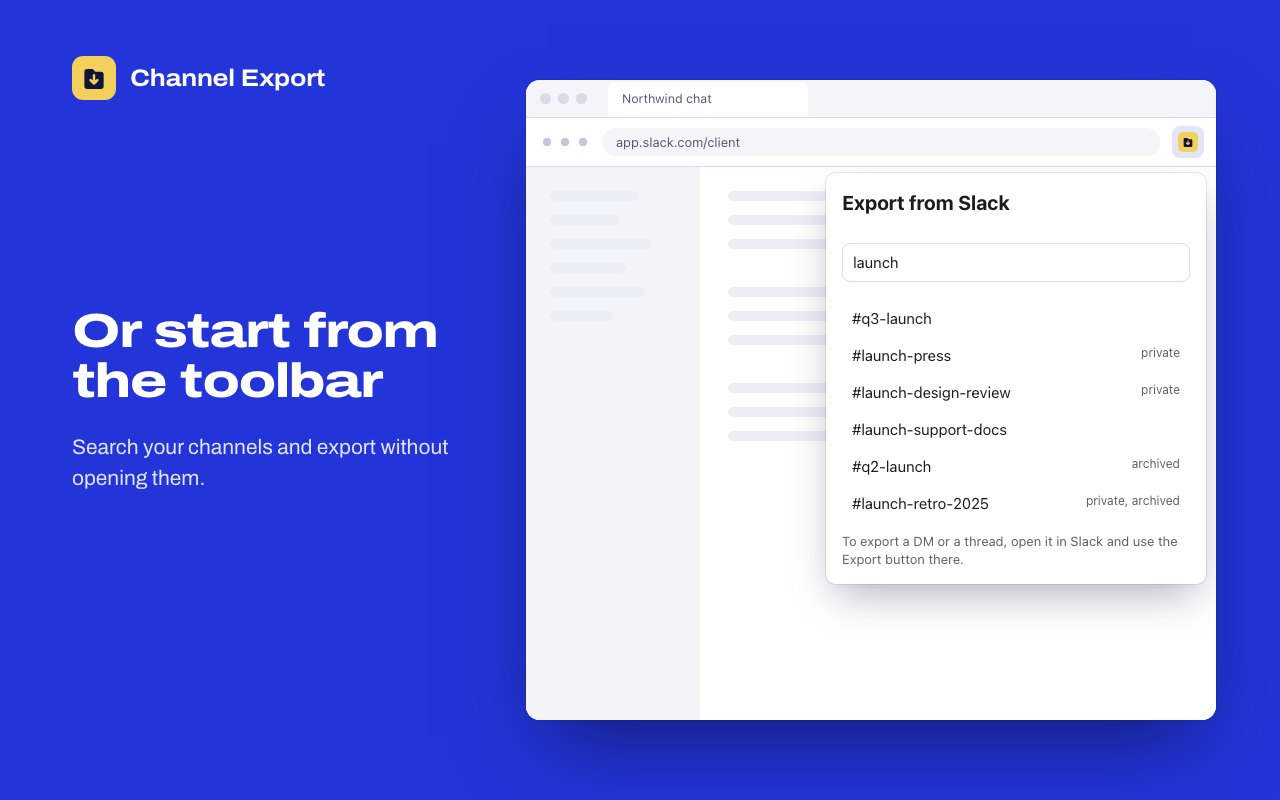
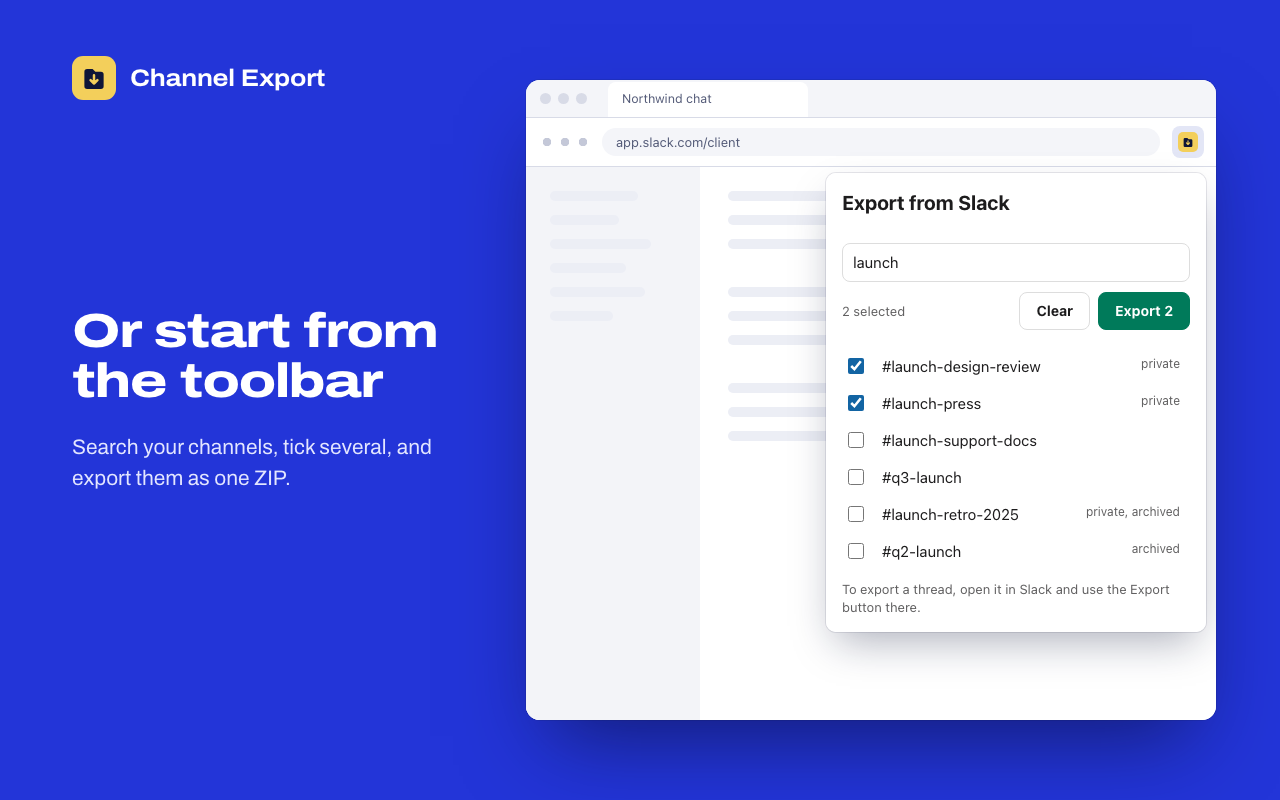
docs: announce Full export and 1:1 DMs on the site

diff --git a/index.html b/index.html
@@ -43,7 +43,7 @@
       "@id": "https://channelexport.app/#app",
       "name": "Channel Export",
       "url": "https://channelexport.app/",
-      "description": "A free Chrome extension that exports any Slack channel, DM, group DM, or thread you can already see to Markdown or CSV, without admin rights. Messages never leave your browser.",
+      "description": "A Chrome extension that exports any Slack channel, DM, group DM, or thread you can already see to Markdown, CSV, HTML, or PDF, without admin rights. Messages never leave your browser.",
       "applicationCategory": "BrowserApplication",
       "applicationSubCategory": "Productivity",
       "operatingSystem": "Chrome",
@@ -54,6 +54,7 @@
       "featureList": [
         "Export Slack channels, DMs, group DMs, and threads",
         "Markdown and CSV export, free with no limits",
+        "HTML and PDF export, files and images, and bulk export with Full export",
         "Choose a date range and whether to include thread replies",
         "Read-only",
         "No admin rights required",
@@ -64,6 +65,12 @@
           "@type": "Offer",
           "name": "Free",
           "price": "0",
+          "priceCurrency": "USD"
+        },
+        {
+          "@type": "Offer",
+          "name": "Full export",
+          "price": "7",
           "priceCurrency": "USD"
         }
       ]
@@ -85,7 +92,7 @@
           "name": "Can I export DMs, group DMs, and private channels?",
           "acceptedAnswer": {
             "@type": "Answer",
-            "text": "Yes. If you can open a conversation in Slack, you can export it. That includes direct messages, group DMs, private channels you're a member of, and single threads. Export a direct message with the Export button in the conversation itself. Channels, private channels, and group DMs can also be picked from the extension popup."
+            "text": "Yes. If you can open a conversation in Slack, you can export it. That includes direct messages, group DMs, private channels you're a member of, and single threads. Pick any of them from the extension popup, or use the Export button in the conversation itself."
           }
         },
         {
@@ -93,7 +100,7 @@
           "name": "Can I export Slack messages to PDF?",
           "acceptedAnswer": {
             "@type": "Answer",
-            "text": "Not yet. Version 1.0 exports Markdown and CSV, free for any conversation, with no limits. HTML and PDF are coming later, as part of Full export."
+            "text": "Yes, with Full export. Choose PDF in the export form and the extension opens the conversation in a tab for Chrome's print dialog. Pick Save as PDF there. Markdown and CSV stay free, with no limits."
           }
         },
         {
@@ -117,7 +124,7 @@
           "name": "Where do my messages go?",
           "acceptedAnswer": {
             "@type": "Answer",
-            "text": "Only to your computer. The extension asks Slack for the messages through your own browser session, builds the file in your browser, and saves it to your Downloads folder. We have no server that receives message content. The extension collects no analytics or usage data. Your Slack sign-in token stays in memory-only session storage. The privacy policy has the details."
+            "text": "Only to your computer. The extension asks Slack for the messages through your own browser session, builds the file in your browser, and saves it to your Downloads folder. We have no server that receives message content. The extension collects no analytics or usage data. Your Slack sign-in token stays in memory-only session storage. If you buy Full export, ExtensionPay learns a random install ID and your checkout email, never your messages. The privacy policy has the details."
           }
         },
         {
@@ -133,7 +140,7 @@
           "name": "Do I have to pay?",
           "acceptedAnswer": {
             "@type": "Answer",
-            "text": "No. Version 1.0 is free, with no limits. A paid Full export with HTML, PDF, and files and images is coming later. It will be a single $7 payment, not a subscription."
+            "text": "No. Markdown and CSV are free, with no limits. Full export adds HTML, PDF, files and images, and exporting several conversations at once. It's a single $7 payment, not a subscription. Nothing is sent to ExtensionPay, which handles payment, until you click Unlock Full export or Restore purchase. Already paid on another computer? Use Restore purchase."
           }
         }
       ]
@@ -165,7 +172,7 @@
           <h1>Save Slack conversations to your computer. Nobody else gets a copy.</h1>
           <div class="hero-row">
             <p class="lede">
-              Export the channels, DMs, and threads you can already see to Markdown or CSV. Free, with no limits.
+              Export the channels, DMs, and threads you can already see to Markdown or CSV, free with no limits, or to HTML and PDF with Full export.
               A Chrome extension that needs no admin rights and no Slack app install. Your browser does the whole export.
             </p>
             <div class="hero-actions">
@@ -290,10 +297,40 @@ Approved. Shipping it 🎉
                   <td>Slack</td>
                   <td>Your sign-in, asking for channel details, your conversation list, and names</td>
                 </tr>
+                <tr>
+                  <td><code>emoji.list</code> (HTML and PDF exports)</td>
+                  <td>Slack</td>
+                  <td>Your sign-in, asking for your workspace's custom emoji names and where their images are</td>
+                </tr>
+                <tr>
+                  <td><code>auth.test</code> (Full export, only if a file download returns a sign-in page)</td>
+                  <td>Slack</td>
+                  <td>Your sign-in, checking that you're still signed in before the export goes on or stops</td>
+                </tr>
+                <tr>
+                  <td>Download files and images (Full export)</td>
+                  <td>Slack, at <code>slack.com</code></td>
+                  <td>Your Slack session cookie, asking for the files in the messages. Your sign-in token is not sent.</td>
+                </tr>
+                <tr>
+                  <td>Download profile pictures and custom emoji (Full export, only if you allow it)</td>
+                  <td>Slack, at <code>slack-edge.com</code></td>
+                  <td>Nothing. Plain requests with no cookies and no sign-in.</td>
+                </tr>
+                <tr>
+                  <td>Check whether you've paid (never before you click Unlock Full export or Restore purchase)</td>
+                  <td>ExtensionPay</td>
+                  <td>A random install ID. Sent when you open checkout or restore, when you ask it to check again, in rechecks for up to an hour after checkout or restore, when you start a Full export before your purchase shows up, and otherwise about once a day once you've used checkout or restore. It answers with whether you've paid and the email you used at checkout. Never any messages or Slack details.</td>
+                </tr>
+                <tr>
+                  <td>Pay for Full export</td>
+                  <td>ExtensionPay and Stripe, on their own checkout page</td>
+                  <td>Your payment details, which you enter on their page. We never see them.</td>
+                </tr>
                 <tr class="log-local">
                   <td>Build and save the file</td>
                   <td>Your Downloads folder</td>
-                  <td>The export. This never leaves your computer.</td>
+                  <td>The export. This never leaves your computer. A PDF is held briefly in the extension's own storage for Chrome's print dialog, then deleted.</td>
                 </tr>
               </tbody>
             </table>
@@ -304,7 +341,7 @@ Approved. Shipping it 🎉
       <section class="section section-tight" aria-labelledby="shots-title">
         <div class="wrap">
           <h2 id="shots-title">Inside your Slack</h2>
-          <p class="section-lede">The Export button sits in the channel header and the thread panel. The toolbar popup can also pick a channel, private channel, or group DM to export.</p>
+          <p class="section-lede">The Export button sits in the channel header and the thread panel. The toolbar popup can also pick any channel, DM, or group DM to export.</p>
           <div class="shots">
             <figure class="shot shot-main">
               <div class="shot-frame"><img src="assets/screenshots/01-dialog.png" alt="The Export dialog: Markdown or CSV, a date range, and thread replies" width="1280" height="800" loading="lazy"></div>
@@ -332,8 +369,8 @@ Approved. Shipping it 🎉
 
       <section class="section" id="pricing" aria-labelledby="pricing-title">
         <div class="wrap">
-          <h2 id="pricing-title">Free, with no limits.</h2>
-          <p class="section-lede">Version 1.0 is free. It isn't a trial. No message limits, no account.</p>
+          <h2 id="pricing-title">Free for Markdown and CSV. Pay once for more.</h2>
+          <p class="section-lede">Markdown and CSV are free, with no message limits and no account. Full export is optional and one-time.</p>
 
           <div class="folders">
             <div class="folder">
@@ -350,17 +387,20 @@ Approved. Shipping it 🎉
               </div>
             </div>
             <div class="folder folder-paid">
-              <div class="folder-tab">Full export: coming soon</div>
+              <div class="folder-tab">Full export</div>
               <div class="folder-body">
-                <p class="price">$7 <span>one time, coming soon</span></p>
+                <p class="price">$7 <span>one time</span></p>
                 <ul class="ticks">
-                  <li>HTML and PDF</li>
-                  <li>Files and images in the export</li>
+                  <li>Everything in Free</li>
+                  <li>HTML with images, files, avatars, and custom emoji, in a ZIP that works offline</li>
+                  <li>PDF, saved with Chrome's Save as PDF</li>
+                  <li>Files and images downloaded into the export</li>
+                  <li>Export many conversations at once</li>
                 </ul>
               </div>
             </div>
           </div>
-          <p class="fine">Full export isn't available yet. There's nothing to buy today.</p>
+          <p class="fine">One payment through ExtensionPay and Stripe, not a subscription. Paid on another computer? Use Restore purchase in the extension.</p>
         </div>
       </section>
 
@@ -382,15 +422,15 @@ Approved. Shipping it 🎉
               <summary>Can I export DMs, group DMs, and private channels?</summary>
               <div class="answer">
                 <p>Yes. If you can open a conversation in Slack, you can export it. That includes direct messages, group DMs, private channels you're a member of, and single threads.</p>
-                <p>Export a direct message with the Export button in the conversation itself. Channels, private channels, and group DMs can also be picked from the extension popup.</p>
+                <p>Pick any of them from the extension popup, or use the Export button in the conversation itself.</p>
               </div>
             </details>
 
             <details>
               <summary>Can I export Slack messages to PDF?</summary>
               <div class="answer">
-                <p>Not yet. Version 1.0 exports Markdown and CSV, free for any conversation, with no limits.</p>
-                <p>HTML and PDF are coming later, as part of Full export.</p>
+                <p>Yes, with Full export. Choose PDF in the export form and the extension opens the conversation in a tab for Chrome's print dialog. Pick Save as PDF there.</p>
+                <p>Markdown and CSV stay free, with no limits.</p>
               </div>
             </details>
 
@@ -413,7 +453,7 @@ Approved. Shipping it 🎉
               <summary>Where do my messages go?</summary>
               <div class="answer">
                 <p>Only to your computer. The extension asks Slack for the messages through your own browser session, builds the file in your browser, and saves it to your Downloads folder. We have no server that receives message content.</p>
-                <p>The extension collects no analytics or usage data. Your Slack sign-in token stays in memory-only session storage. The <a href="privacy">privacy policy</a> has the details.</p>
+                <p>The extension collects no analytics or usage data. Your Slack sign-in token stays in memory-only session storage. If you buy Full export, ExtensionPay learns a random install ID and your checkout email, never your messages. The <a href="privacy">privacy policy</a> has the details.</p>
               </div>
             </details>
 
@@ -429,7 +469,8 @@ Approved. Shipping it 🎉
             <details>
               <summary>Do I have to pay?</summary>
               <div class="answer">
-                <p>No. Version 1.0 is free, with no limits. A paid Full export with HTML, PDF, and files and images is coming later. It will be a single $7 payment, not a subscription.</p>
+                <p>No. Markdown and CSV are free, with no limits. Full export adds HTML, PDF, files and images, and exporting several conversations at once. It's a single $7 payment, not a subscription.</p>
+                <p>Nothing is sent to ExtensionPay, which handles payment, until you click Unlock Full export or Restore purchase. Already paid on another computer? Use Restore purchase.</p>
               </div>
             </details>
           </div>
@@ -450,6 +491,7 @@ Approved. Shipping it 🎉
       <nav aria-label="Footer">
         <a href="privacy">Privacy policy</a>
         <a href="https://chromewebstore.google.com/detail/channel-export-export-sla/dddkefnkidamdnikccdjfgmoeegpmkih" data-cws-link>Chrome Web Store</a>
+        <a href="https://github.com/Munsterberg/channelexport">Source code</a>
       </nav>
     </div>
   </footer>
